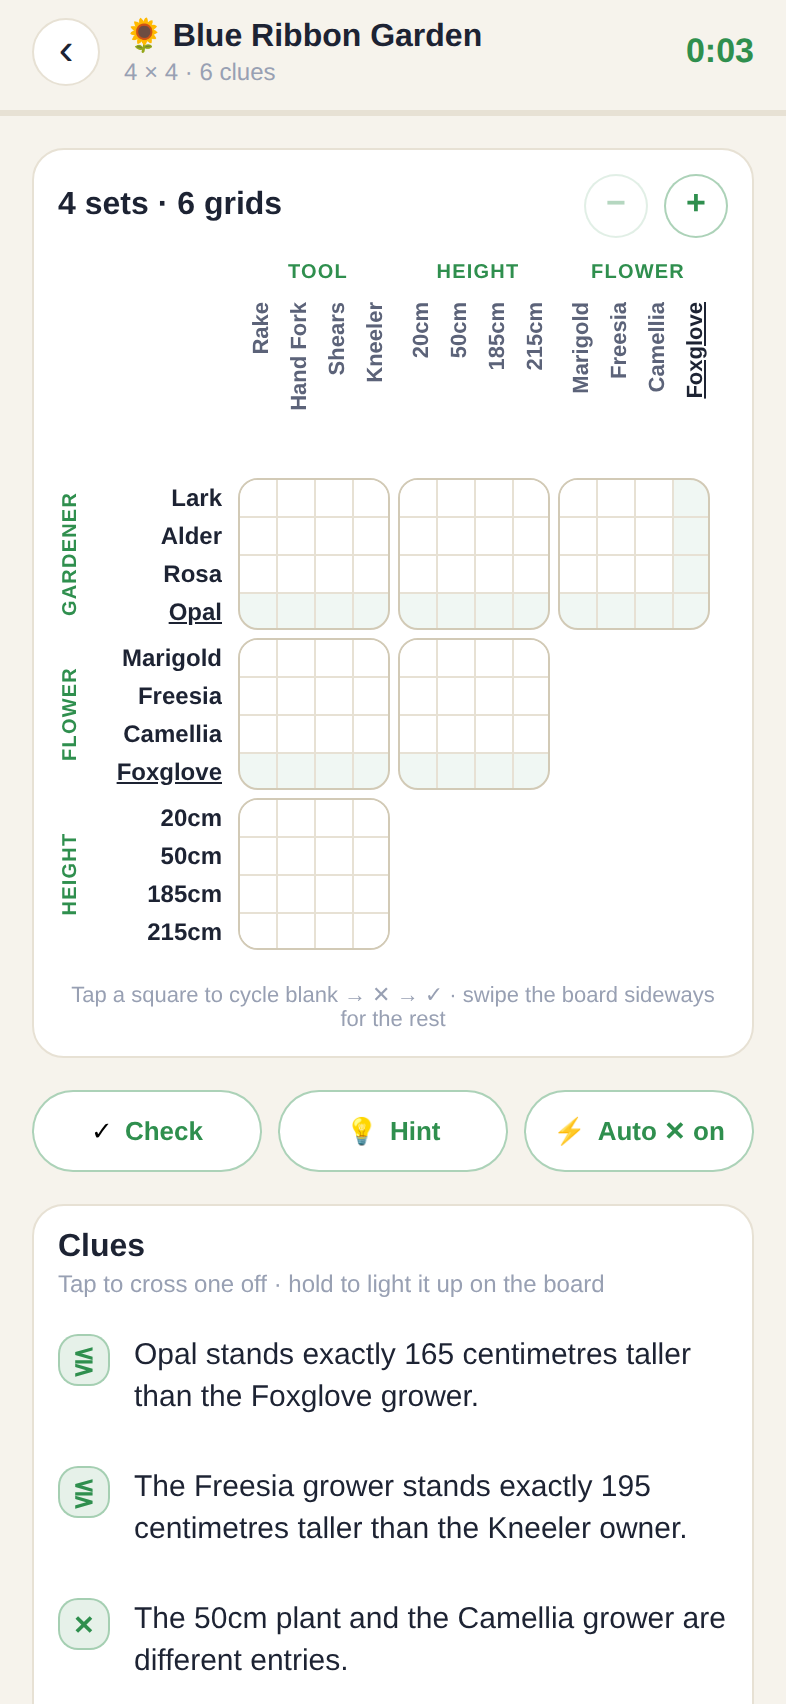
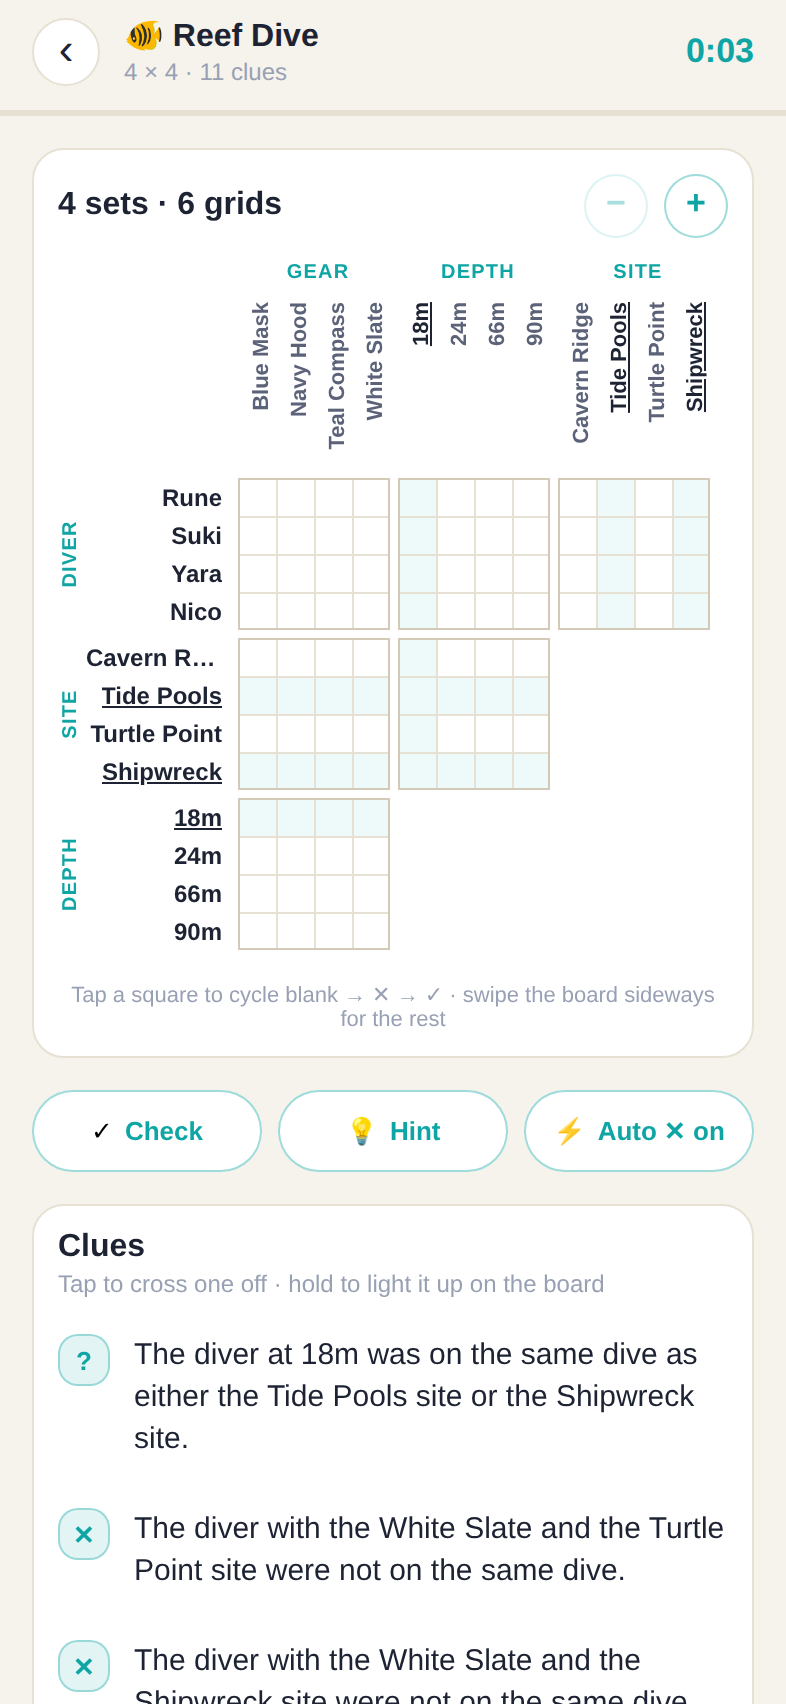
Square off the grid blocks
The rounded corners softened the join between a block and its labels; printed
logic grids are square, and so is the rest of the board's ruling.

Claude-Session: https://claude.ai/code/session_01RrDehsX5bvPAsFa5dYERaj

diff --git a/src/components/GridBoard.tsx b/src/components/GridBoard.tsx
@@ -4,7 +4,7 @@ import { Pressable, ScrollView, StyleSheet, Text, View } from 'react-native';
 import { getEntry, markKey, type Cell, type Marks } from '../game/board';
 import { boardLayout } from '../game/layout';
 import type { Attribute, Puzzle } from '../puzzle/types';
-import { palette, radius, space, tint } from '../ui/theme';
+import { palette, space, tint } from '../ui/theme';
 
 interface Props {
   puzzle: Puzzle;
@@ -289,7 +289,6 @@ const styles = StyleSheet.create({
   block: {
     borderWidth: 1,
     borderColor: palette.lineStrong,
-    borderRadius: radius.sm,
     overflow: 'hidden',
     marginRight: BLOCK_GAP,
     marginBottom: BLOCK_GAP,
